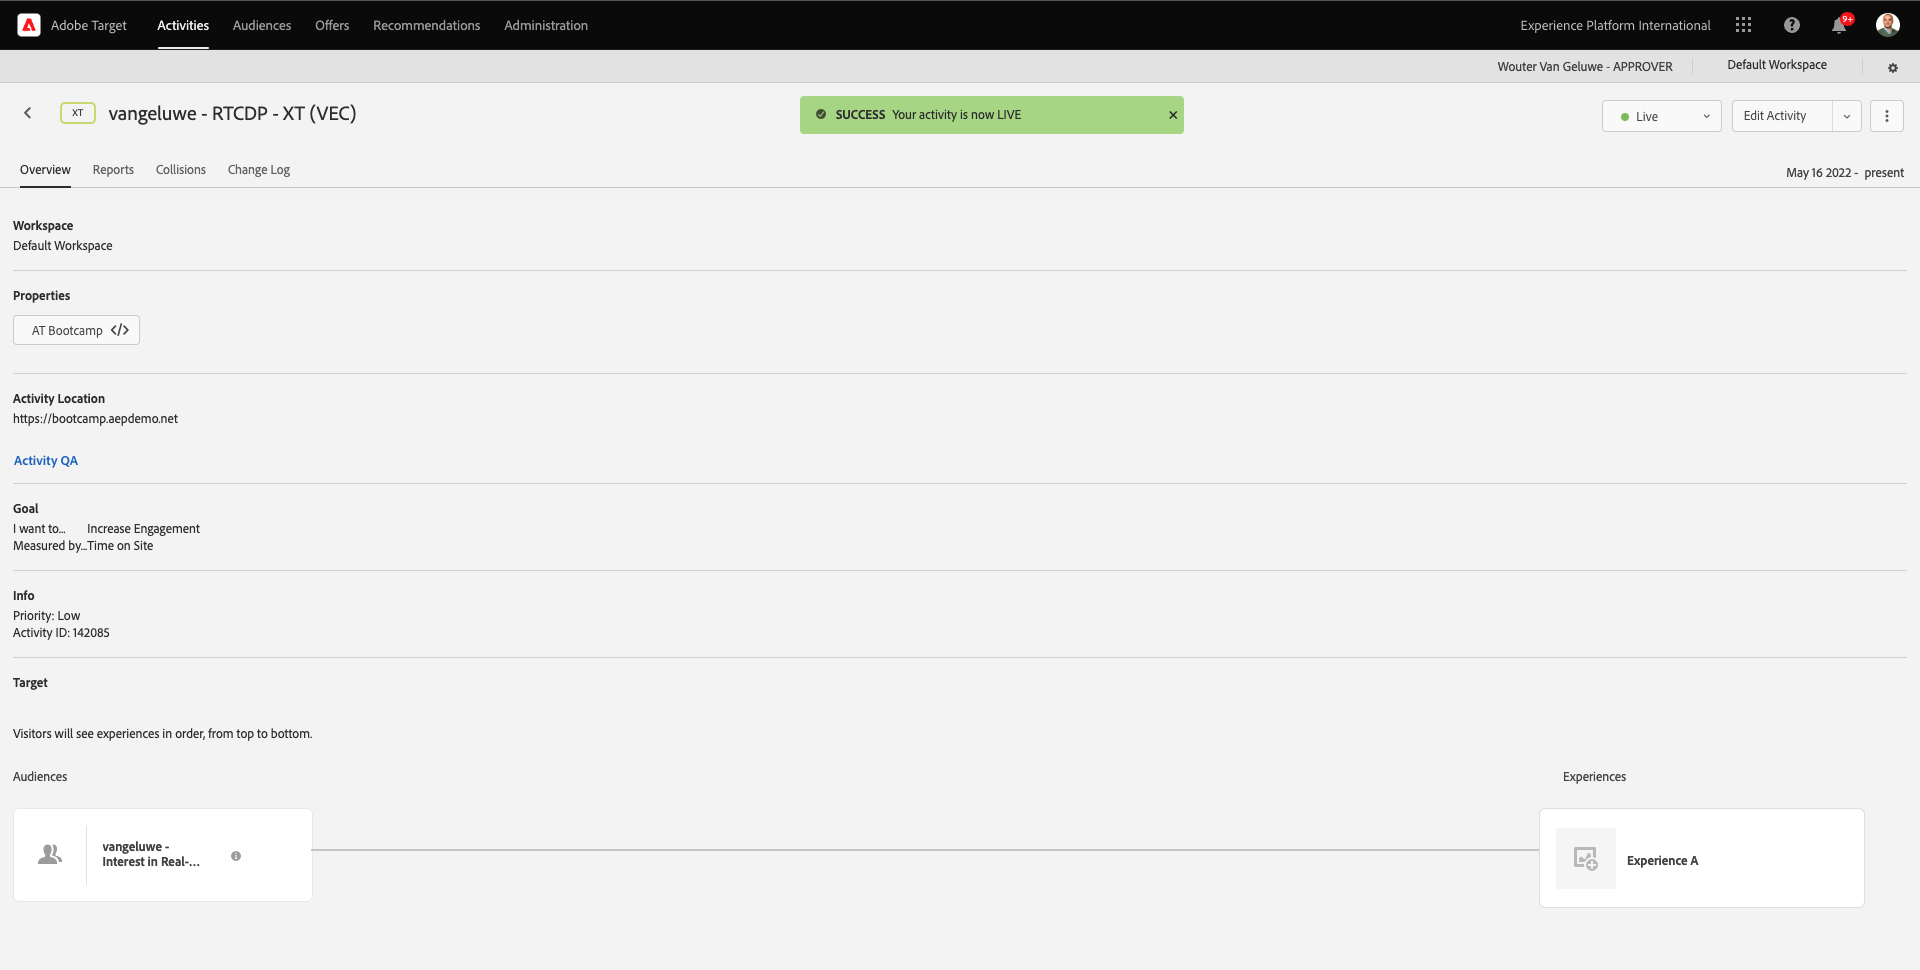
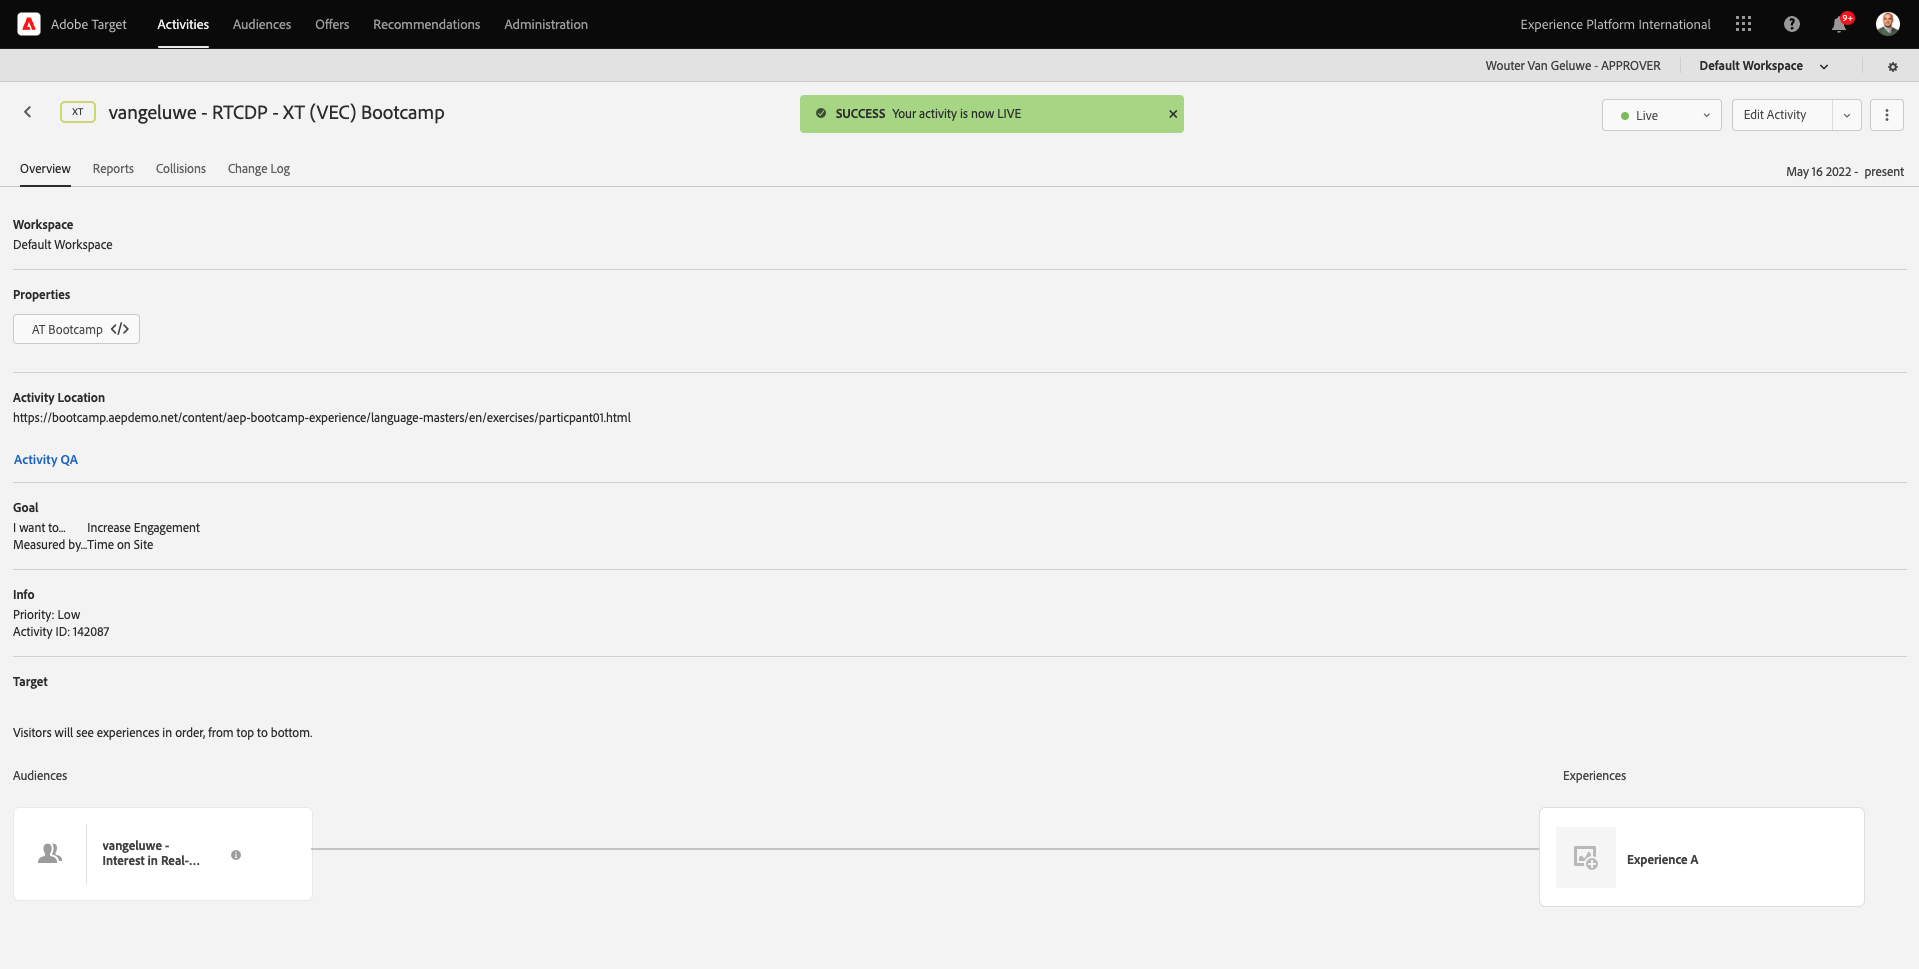
update to ex 1.4

diff --git a/help/bootcamp/uc/uc1/ex4.md b/help/bootcamp/uc/uc1/ex4.md
@@ -65,7 +65,17 @@ Select **Experience Targeting**.
 
 ![RTCDP](./images/exclatcrxt.png)
 
-Select **Visual** and set the **Activity URL** to **https://bootcamp.aepdemo.net/**. Click **Next**. 
+Select **Visual** and set the **Activity URL** to `https://bootcamp.aepdemo.net/content/aep-bootcamp-experience/language-masters/en/exercises/particpantXX.html`, but before you do that, replace XX by a number between 01 and 30.
+
+>[!IMPORTANT]
+>
+>Every participant of the enablement should use a separate web page to avoid collision of various Adobe Target experiences. You can pick a web page and find the URL by going here: [https://bootcamp.aepdemo.net/content/aep-bootcamp-experience/language-masters/en/exercises.html](https://bootcamp.aepdemo.net/content/aep-bootcamp-experience/language-masters/en/exercises.html). 
+>
+>Pages all share the same base URL, and end in the number of the participant. 
+>
+>As an example, participant 1 should use URL `https://bootcamp.aepdemo.net/content/aep-bootcamp-experience/language-masters/en/exercises/particpant01.html`, participant 30 should use URL `https://bootcamp.aepdemo.net/content/aep-bootcamp-experience/language-masters/en/exercises/particpant30.html`.
+
+Click **Next**. 
 
 ![RTCDP](./images/exclatcrxtdtlform.png)
 
@@ -137,7 +147,15 @@ Your activity is now live and can be tested on the bootcamp website.
 
 If you now go back to your demo website and visit the product page for **Real-Time CDP**, you'll then instantly qualify for the segment that you created, and you'll see the Adobe Target activity be displayed on the home page in real-time.
 
-![RTCDP](./images/atform12.png)
+>[!IMPORTANT]
+>
+>Every participant of the enablement should use a separate web page to avoid collision of various Adobe Target experiences. You can pick a web page and find the URL by going here: [https://bootcamp.aepdemo.net/content/aep-bootcamp-experience/language-masters/en/exercises.html](https://bootcamp.aepdemo.net/content/aep-bootcamp-experience/language-masters/en/exercises.html). 
+>
+>Pages all share the same base URL, and end in the number of the participant. 
+>
+>As an example, participant 1 should use URL `https://bootcamp.aepdemo.net/content/aep-bootcamp-experience/language-masters/en/exercises/particpant01.html`, participant 30 should use URL `https://bootcamp.aepdemo.net/content/aep-bootcamp-experience/language-masters/en/exercises/particpant30.html`.
+
+![RTCDP](./images/atform12a.png)
 
 Next Step: [1.5 Take Action: send your segment to Facebook](./ex5.md)
 
